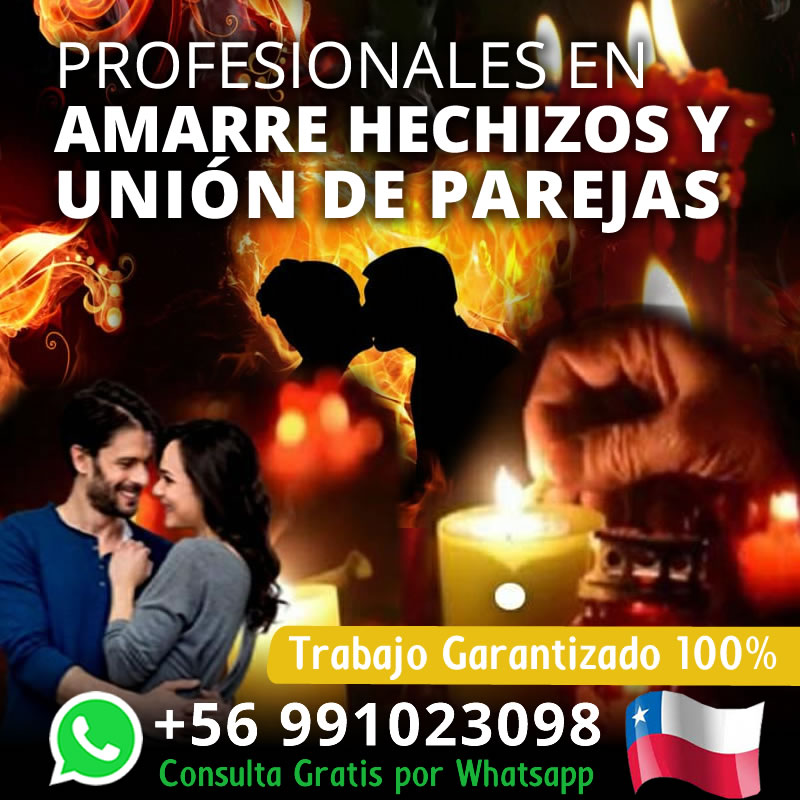
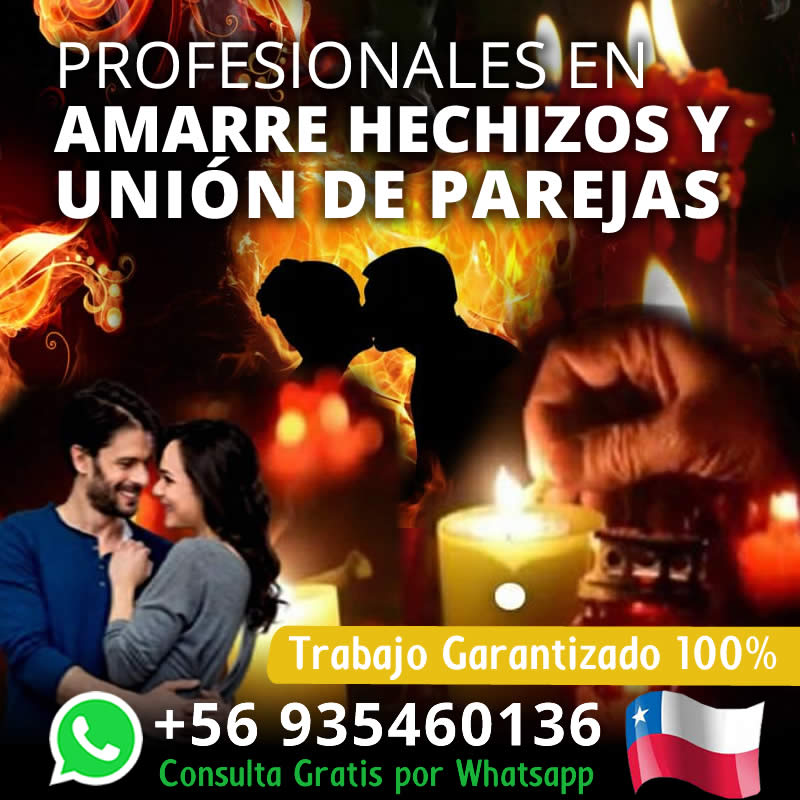
Add files via upload

Changed region(s): [[0.375, 0.875, 0.75, 0.9375]]

diff --git a/index.html b/index.html
@@ -114,11 +114,11 @@ h1 {padding: 20px 0px;}
 <header>
 <body>
 <center>		       
-<a href=https://api.whatsapp.com/send/?phone=56991023098&text=Maestro+Necesito+Ayuda&app_absent=0"><img src="boton.png" width="600" height="100" alt="WhatsApp +56 991023098"  /></a></center>
+<a href=https://api.whatsapp.com/send/?phone=56935460136&text=Maestro+Necesito+Ayuda&app_absent=0"><img src="boton.png" width="600" height="100" alt="WhatsApp +56 935460136"  /></a></center>
 </header>
   <center>
-<a href=https://api.whatsapp.com/send/?phone=56991023098&text=Maestro+Necesito+Ayuda&app_absent=0"><img src="amarredeparejas.jpg" width="600" height="600" alt="WhatsApp +56 991023098"  /></a>
-<a href=https://api.whatsapp.com/send/?phone=56991023098&text=Maestro+Necesito+Ayuda&app_absent=0"><img src="tarot.jpg" width="600" height="350" alt="WhatsApp +56 991023098"  /></a>
+<a href=https://api.whatsapp.com/send/?phone=56935460136&text=Maestro+Necesito+Ayuda&app_absent=0"><img src="amarredeparejas.jpg" width="600" height="600" alt="WhatsApp +56 935460136"  /></a>
+<a href=https://api.whatsapp.com/send/?phone=56935460136&text=Maestro+Necesito+Ayuda&app_absent=0"><img src="tarot.jpg" width="600" height="350" alt="WhatsApp +56 935460136"  /></a>
 </center>
                                
 <section id="services" class="content3">
@@ -130,7 +130,7 @@ h1 {padding: 20px 0px;}
 </center>
 </section>
 <center>
-<a href="https://api.whatsapp.com/send/?phone=56991023098&text=Maestro+Necesito+Ayuda&app_absent=0"><img src="https://raw.githubusercontent.com/amarredeamor/parejas/main/amarre2.jpg" width="600" height="300" alt="WhatsApp +56 991023098"  /></a>
+<a href="https://api.whatsapp.com/send/?phone=56935460136&text=Maestro+Necesito+Ayuda&app_absent=0"><img src="https://raw.githubusercontent.com/amarredeamor/parejas/main/amarre2.jpg" width="600" height="300" alt="WhatsApp +56 935460136"  /></a>
 </center>
 <center>		
 <h2>TESTIMONIOS</h2>
@@ -162,7 +162,7 @@ ESTEBAN - 41 AÑOS
 
 <div id="sticky-content">
 <center>
-<a href=https://api.whatsapp.com/send/?phone=56991023098&text=Maestro+Necesito+Ayuda&app_absent=0"><img src="boton.png" alt="WhatsApp +56 991023098"  /></a><br>
+<a href=https://api.whatsapp.com/send/?phone=56935460136&text=Maestro+Necesito+Ayuda&app_absent=0"><img src="boton.png" alt="WhatsApp +56 935460136"  /></a><br>
 </center></div>
 <section id="portfolio" class="content">
 <h2>QUIENES SOMOS</h2>
@@ -171,7 +171,7 @@ Somos Brujos de descendencia ancestral, poseedores de un poder sobrenatural perf
 </p>
 </section>
 <footer><center>
-<a href="https://api.whatsapp.com/send/?phone=56991023098&text=Maestro+Necesito+Ayuda&app_absent=0">+56 9 9102 3098 </a>
+<a href="https://api.whatsapp.com/send/?phone=56935460136&text=Maestro+Necesito+Ayuda&app_absent=0">+56 935460136</a>
   <br />Consulta sin costo por WhatsApp</center>
 </footer>
 </body>
